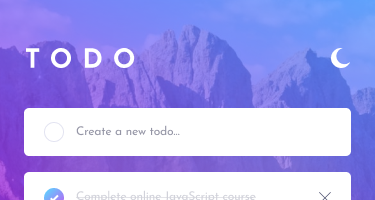
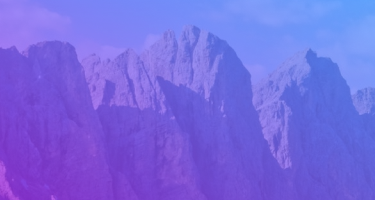
adição do arquivo css na pasta public e inicio da adição do header

diff --git a/public/css/styles.css b/public/css/styles.css
@@ -1,0 +1,14 @@
+*{
+    margin: 0;
+    padding: 0;
+    box-sizing: border-box;
+    font-family: 'Josefin Sans', sans-serif;
+}
+
+:root{
+    --bg-header-mobile: url(../imagens/bg-header-mobile-light.png);
+}
+
+header {
+    background-image: var(--bg-header-mobile);
+}
